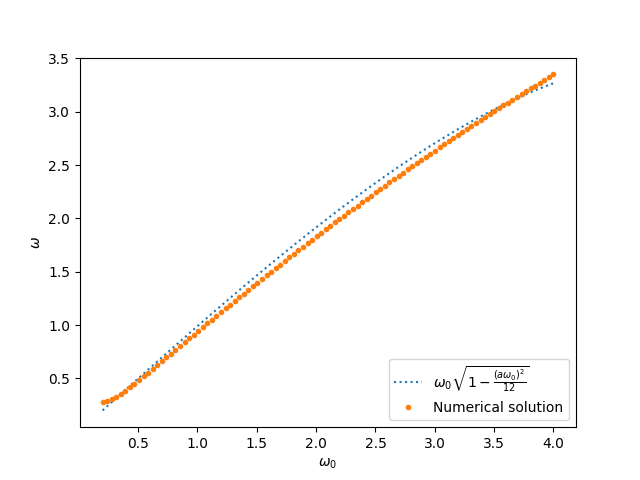
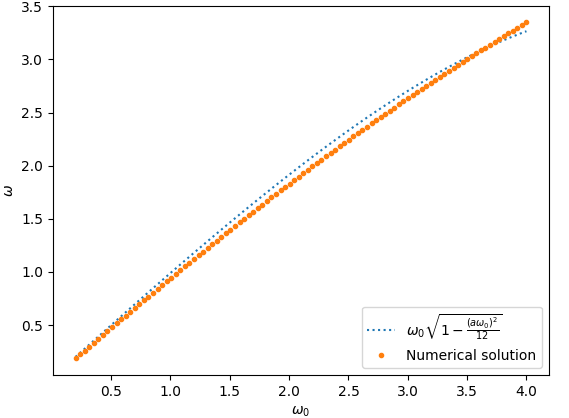
Fixed a typo in Harmonic_Oscillator_Solutions and more descriptive names

diff --git a/Harmonic_Oscillator_Solutions.py b/Harmonic_Oscillator_Solutions.py
@@ -7,7 +7,7 @@ N = 20 #total lattice sites
 T = a*N #total time
 Npoints = 100
 t = np.linspace(0, T, N) #time axis
-improved = True
+improved = False
 w0=np.linspace(0.2,4,Npoints) #known frequency of the oscillator
 
 #The following function defines the matrix associated with the discretization of the
@@ -50,26 +50,26 @@ def SystemMatrixImproved(w0):
     return M
 
 #The following function solves the linear system Mx = h where M is the matrix of the unimproved second derivative,
-# and h is a length-N array, h = [-x0,0...,0,xN] where x0 and xN are passed as inputs, together with the oscillator frequency w0.
+# and h is a length-N array, h = [-xm1,0...,0,-xN] where xm1 and xN are passed as inputs, together with the oscillator frequency w0.
 #It returns an array x solution to the aforementioned system.
-def Solve(w0,x0, xN):
+def Solve(w0,xm1, xN):
     h = np.zeros(N)
-    h[0] = -x0
-    h[-1] = xN
+    h[0] = -xm1
+    h[-1] = -xN
     M = SystemMatrix(w0)
     x = np.linalg.solve(M,h)
     return x
 
 #The following function solves the linear system Mx = h where M is the matrix of the improved second derivative and
-# h is a length-N array, h = [(1/12 x1-4/3 x0),(1/12)x0,0...,0,1/12 xN,(1/12 xNm1-4/3 xN)]
-# where x0,x1,xNm1 and xN are passed as inputs, together with the oscillator frequency w0.
+# h is a length-N array, h = [(1/12 xm2-4/3 xm1),(1/12)xm1,0...,0,1/12 xN,(1/12 xNp1-4/3 xN)]
+# where xm1,xm2,xNp1 and xN are passed as inputs, together with the oscillator frequency w0.
 #It returns an array x solution to the aforementioned system.
-def SolveImproved(w0,x0,x1,xNm1,xN):
+def SolveImproved(w0,xm1,xm2,xNp1,xN):
     h = np.zeros(N)
-    h[0]=(1/12)*x1-(4/3)*x0
-    h[1] = x0*(1/12)
+    h[0]=(1/12)*xm2-(4/3)*xm1
+    h[1] = xm1*(1/12)
     h[N-2] = xN*(1/12)
-    h[N-1] = (1/12)*xNm1-(4/3)*xN
+    h[N-1] = (1/12)*xNp1-(4/3)*xN
     M = SystemMatrixImproved(w0)
     x = np.linalg.solve(M,h)
     return x
@@ -103,17 +103,17 @@ def HarmonicOscillatorSolution(w0,improved, Npoints=100):
     x_sol = np.zeros((Npoints,N))
     w_sol = np.zeros(Npoints)
     w_exp = np.zeros(Npoints)
-    x0 = np.exp(0) #x0 = e^(-w*0), initial point of the lattice
+    xm1 = np.exp(0) #xm1 = e^(-w*0), initial point of the lattice
     for k in range(Npoints):
         xN = np.exp(-w0[k]*T)#xN = e^(-w*T) final point of the lattice
         if improved:
-            x1 = np.exp(w0[k]*a)#for improved case we consider x1= e^(-w*(-a))
-            xNm1 = np.exp(-w0[k]*(T-a))# xNm1 = e^(-w*(T-a))
-            x_sol[k] = SolveImproved(w0[k],x0,x1,xNm1,xN)
+            xm2 = np.exp(w0[k]*a)#for improved case we consider xm2= e^(-w*(-a))
+            xNp1 = np.exp(-w0[k]*(T-a))# xNp1 = e^(-w*(T-a))
+            x_sol[k] = SolveImproved(w0[k],xm1,xm2,xNp1,xN)
             w_exp[k] = w0[k]*np.sqrt(1+((a*w0[k])**4)/90)
 
         else:
-            x_sol[k] = Solve(w0[k], x0, xN)
+            x_sol[k] = Solve(w0[k], xm1, xN)
             w_exp[k] = w0[k]*np.sqrt(1-((a*w0[k])**2)/12)
 
 #Fitting the solution with the exponential function to retrieve w_sol
